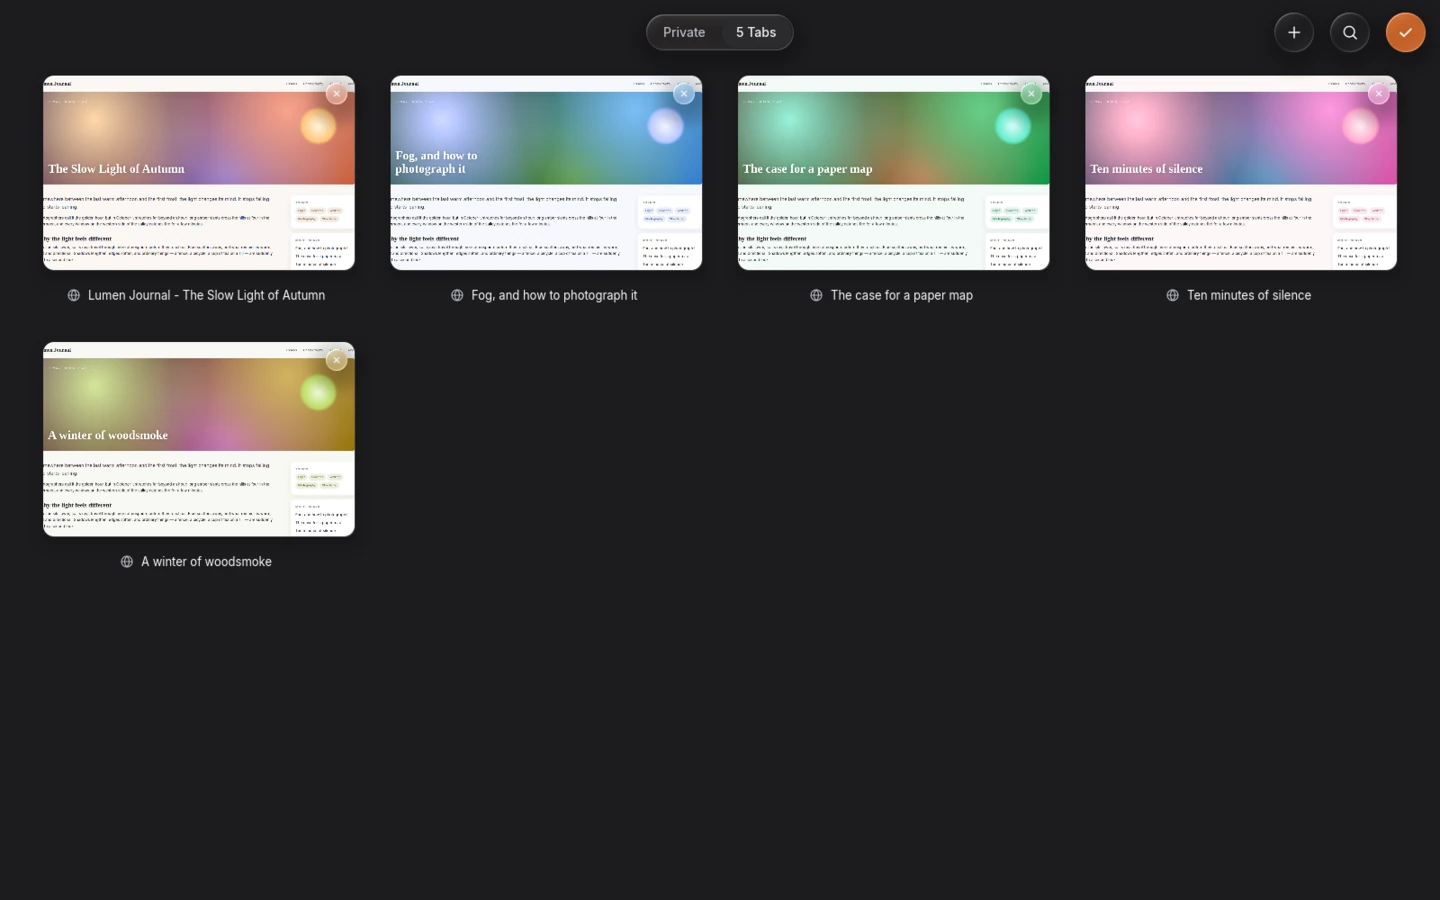
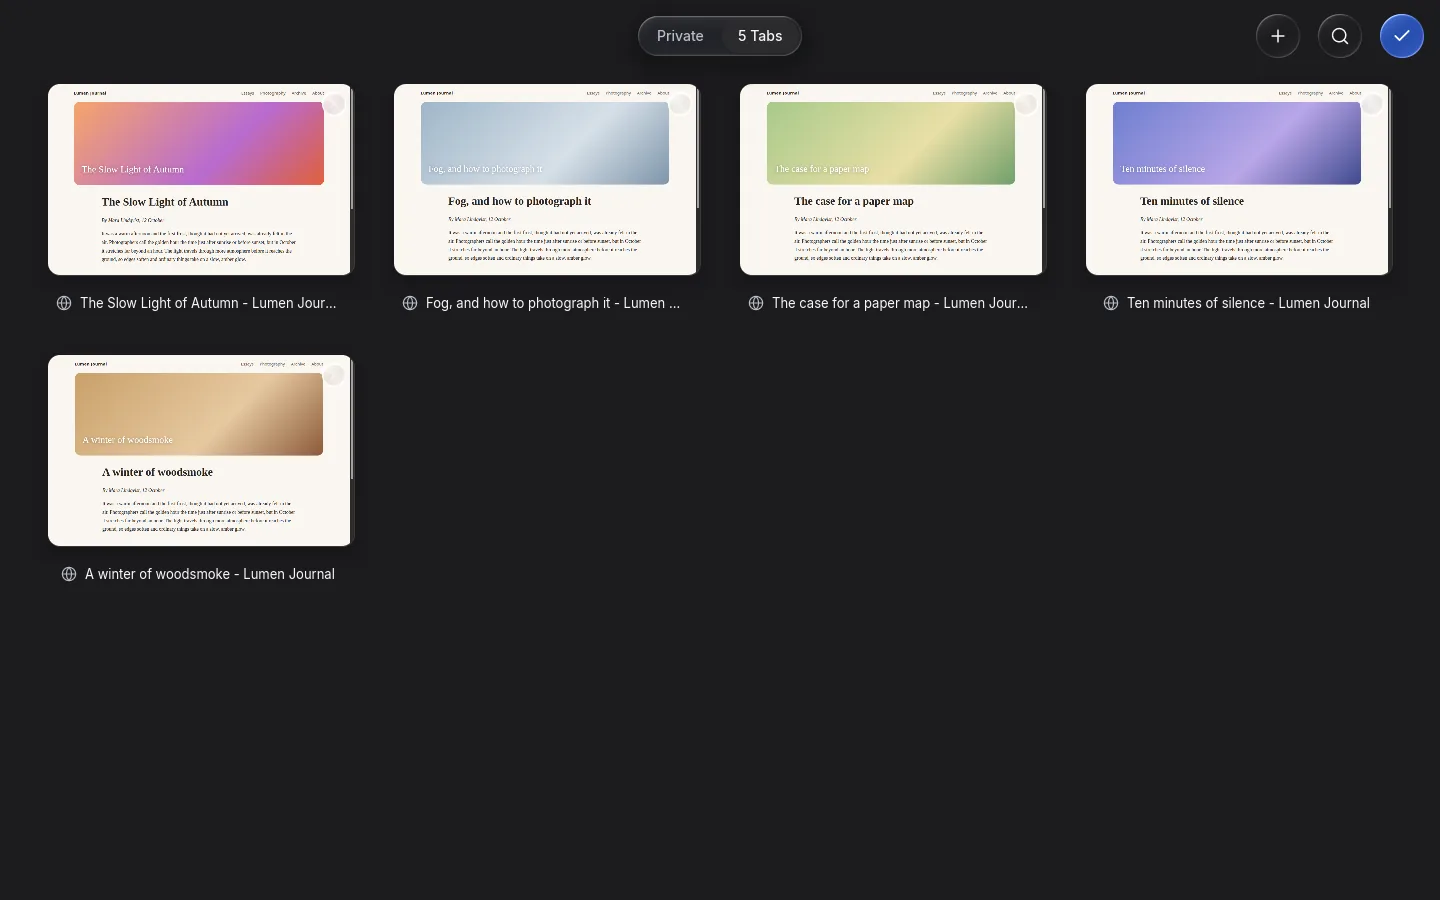
README: retaken screenshots with the 0.3 build, new gallery, feature text for 0.3, glibc requirement, MPL note for priority-queue

Changed region(s): [[0.0312, 0.0, 1.0, 0.3422], [0.0312, 0.3733, 0.25, 0.6533]]

diff --git a/README.md b/README.md
@@ -40,7 +40,7 @@ textures, and the interface, the glass and the page are composited in a single f
 genuinely refracts whatever is underneath it.
 
 > [!NOTE]
-> Axion is in **early development** (version 0.0.x). It is usable day to day on the author's machine,
+> Axion is in **early development** (version 0.x). It is usable day to day on the author's machine,
 > but expect rough edges, missing features and breaking changes. See [Status and roadmap](#status-and-roadmap).
 
 ## Features
@@ -59,13 +59,18 @@ genuinely refracts whatever is underneath it.
   (and then refracts it). The page is a rounded card; the chrome flips between light and dark to
   match the page's top edge.
 - **Tab overview** - a grid of live tab thumbnails with a Private / tabs switch and search.
+- **Tab groups and tab search** - name and colour groups of tabs (right-click a tab); they show in
+  the sidebar, the tab bar and the overview, fold away, and come back after a restart.
+  `Ctrl+Shift+A` searches open tabs by title, address or group.
+- **Command palette** - `Ctrl+K` finds any action by name and shows its shortcut.
+- **Link preview** - a small glass bubble shows where the link under the pointer leads.
 - **Sidebar** - tab groups, a locked *Private* section, Bookmarks, Reading List, History, Playlist,
   Downloads and Passwords, plus the account switcher at the bottom.
 - **Start page** - clock and greeting, search field, your top sites, Shields statistics (trackers
   blocked, bandwidth and time saved) and your own backgrounds, including animated and **video live
   wallpapers**.
-- **Context menus**, address-bar suggestions, find on page, zoom, share, downloads popover and a
-  glass toast/alert system - all native Axion UI, not web content.
+- **Context menus**, address-bar suggestions, find on page, page zoom (remembered per site), share,
+  downloads popover and a glass toast/alert system - all native Axion UI, not web content.
 - **Light, dark or automatic** theme, accent colours, text scale, icon weight and corner radius.
 - **English and German** interface.
 - **First-run tour** - a five-step introduction that lets you pick language, theme, accent, tab bar
@@ -84,6 +89,12 @@ genuinely refracts whatever is underneath it.
   (XChaCha20-Poly1305 per item). The vault key needs two factors: your master password (Argon2id)
   *and* a device secret, which is sealed in the **TPM** when one is available (otherwise a key file
   outside the profile). Copying the profile to another machine does not expose the vault.
+- **Network & VPN** - send an account's tabs, its private tabs or single sites through an upstream
+  proxy (SOCKS5, HTTP, HTTPS), a **WireGuard** VPN (userspace, no root) or **Tor** (built in, with
+  a circuit view that shows the hops of the current site). A kill switch blocks instead of falling
+  back to a direct connection, and leak protection switches off WebRTC leaks and Chromium's
+  background services while a route is active. Tor here is not Tor Browser: it adds no
+  fingerprinting resistance. See [Network & VPN](docs/network.md).
 - **Local accounts** - every account is a fully separate profile (tabs, history, bookmarks,
   downloads, passwords, website data, settings, keymap) with an avatar and its own password.
   Switching accounts relaunches Axion into the other profile.
@@ -108,6 +119,20 @@ genuinely refracts whatever is underneath it.
   viewing. A dedicated page with a thumbnail list, search, sorting, shuffle/repeat, speed, sleep
   timer, remembered positions and "continue watching". Playback shows only the video, never the
   surrounding site.
+
+### Reading, extensions and everyday tools
+
+- **Chrome extensions** - Manifest V3 extensions from the Chrome Web Store, a `.crx` file or an
+  unpacked folder, with a permission review before anything is installed, an extensions button
+  and popover, and automatic updates. See [Chrome extensions](docs/features/extensions.md) for
+  what works and what does not.
+- **Reader View and translation** - a distraction-free reader with its own text and colour
+  options, and page translation that runs on your computer (Bergamot, WebAssembly); an optional
+  LibreTranslate server can be set instead.
+- **Print or Save as PDF** with paper, orientation, margins and scale choices, and a
+  **screenshot tool** (selection, visible area or the full page) with copy and save.
+- **Site permissions** for microphone, camera, screen sharing, notifications and location, with
+  a recording indicator.
 
 ### Productivity and developer tools
 
@@ -147,11 +172,31 @@ genuinely refracts whatever is underneath it.
   </tr>
   <tr>
     <td width="50%"><img src="assets/screenshots/overview-light.webp" alt="Tab overview in light mode"><br><sub><b>Tab overview</b> (light).</sub></td>
-    <td width="50%"><img src="assets/screenshots/onboarding-light.webp" alt="First-run tour: choose your look"><br><sub><b>First-run tour</b> - choose your look.</sub></td>
+    <td width="50%"><img src="assets/screenshots/onboarding-light.webp" alt="First-run tour: welcome"><br><sub><b>First-run tour</b> - language, theme, accent and more.</sub></td>
   </tr>
 </table>
 
-<sub>The screenshots show a local demo page and generated wallpapers.</sub>
+<table>
+  <tr>
+    <td width="50%"><img src="assets/screenshots/groups-dark.webp" alt="Tab groups in the sidebar and the tab bar"><br><sub><b>Tab groups</b> - coloured groups in the sidebar and the tab bar.</sub></td>
+    <td width="50%"><img src="assets/screenshots/palette-dark.webp" alt="The command palette"><br><sub><b>Command palette</b> (<code>Ctrl+K</code>).</sub></td>
+  </tr>
+  <tr>
+    <td width="50%"><img src="assets/screenshots/network-dark.webp" alt="Settings, Network and VPN page with a connected proxy"><br><sub><b>Network &amp; VPN</b> - proxy, WireGuard and Tor, per account, private tab or site.</sub></td>
+    <td width="50%"><img src="assets/screenshots/extensions-dark.webp" alt="The extensions popover"><br><sub><b>Extensions</b> - the popover under the extensions button.</sub></td>
+  </tr>
+  <tr>
+    <td width="50%"><img src="assets/screenshots/reader-light.webp" alt="Reader View with its options popover"><br><sub><b>Reader View</b> with its text options.</sub></td>
+    <td width="50%"><img src="assets/screenshots/print-light.webp" alt="The Print or Save as PDF dialog"><br><sub><b>Print or Save as PDF</b>.</sub></td>
+  </tr>
+  <tr>
+    <td width="50%"><img src="assets/screenshots/screenshot-tool-light.webp" alt="The screenshot tool: selection, visible area, full page"><br><sub><b>Screenshot tool</b> - selection, visible area or full page.</sub></td>
+    <td width="50%"><img src="assets/screenshots/link-preview-light.webp" alt="The link preview bubble at the bottom of the page"><br><sub><b>Link preview</b> - where the link leads.</sub></td>
+  </tr>
+</table>
+
+<sub>The screenshots show a local demo page, generated wallpapers and a throwaway profile. A few
+more are in [`docs/screenshots`](docs/screenshots).</sub>
 
 ## Documentation
 
@@ -160,8 +205,16 @@ User documentation lives in [`docs/`](docs/README.md):
 - [Getting started](docs/getting-started.md) - first launch, tabs, sidebar, start page, private tabs.
 - [Settings reference](docs/settings.md) - every setting, with defaults and config keys.
 - [Keyboard shortcuts](docs/keyboard-shortcuts.md) - defaults and how to remap them.
-- [Features](docs/README.md#features) - Shields, tabs and memory, accounts and privacy, passwords,
-  media and Playlist, appearance, hardware acceleration, updates.
+- [Network & VPN](docs/network.md) - proxies, WireGuard, Tor, the kill switch and the threat model.
+- [Features](docs/README.md#features) - [Shields](docs/features/shields.md),
+  [tabs and memory](docs/features/tabs-and-memory.md) (including tab groups),
+  [accounts and privacy](docs/features/accounts-and-privacy.md), [passwords](docs/features/passwords.md),
+  [media and Playlist](docs/features/media-and-playlist.md),
+  [reading and translation](docs/features/reading-and-translation.md),
+  [Chrome extensions](docs/features/extensions.md),
+  [site permissions](docs/features/site-permissions.md),
+  [appearance](docs/features/appearance-and-glass.md),
+  [hardware acceleration](docs/features/hardware-acceleration.md), [updates](docs/features/updates.md).
 - [Configuration files](docs/configuration.md) and [Troubleshooting](docs/troubleshooting.md).
 
 ## Install
@@ -179,6 +232,10 @@ entry and the icons (`./install.sh --uninstall` removes them again). What your s
 sandbox on Ubuntu 24.04 and how releases are made: [docs/install.md](docs/install.md).
 
 ## Requirements
+
+The **official releases** (AppImage and tarball, x86_64) need glibc 2.39 or newer (Ubuntu 24.04,
+Debian 13, Fedora 40, Arch and newer) and a Vulkan-capable GPU with its driver; the full list is in
+[docs/install.md](docs/install.md#what-your-system-needs).
 
 To **build from source** you need:
 
@@ -369,6 +426,10 @@ non-rendering crates (`engine`, `shields`, `tabs`, `store`, `config`, `accounts`
 | `axion-tabs` | Tab lifecycle planner (freeze/discard by idle time and memory budget) and the memory monitor. |
 | `axion-media` | The media bridge script and protocol; MPRIS lives in the app. |
 | `axion-i18n` | Gettext-style translations (English source text is the key; German catalog included). |
+| `axion-net` | Network routes: upstream proxies, userspace WireGuard, Tor (Arti), the local relays, kill switch and leak protection. |
+| `axion-extensions` | Chrome extension manifests, ids, permissions and `.crx`/`.zip` unpacking. |
+| `axion-reader` | The reader-view article extractor and its page script. |
+| `axion-translate` | Local page translation (Bergamot WASM) and the optional LibreTranslate endpoint. |
 | `axion-update` | Release checks (GitHub or a manifest), checksum verification, AppImage and Git updates. |
 
 **Rendering model.** CEF renders each visible tab off-screen and hands frames over as dma-buf
@@ -389,16 +450,22 @@ Axion is **early alpha**. What works today:
 - Tab freezing and discarding with a memory budget.
 - The media player, fullscreen, Picture-in-Picture, MPRIS and the Playlist with offline downloads.
 - The first-run tour, English and German UI, and the updater.
+- Tab groups and tab search, the command palette, link preview, Reader View, local page
+  translation, print/PDF and the screenshot tool.
+- Chrome extensions (Manifest V3) with Chrome Web Store installs.
+- Network & VPN: proxies, WireGuard and Tor, per account, private tab or site.
 
 Known gaps and ideas:
 
 - **H.264/AAC** requires a self-built CEF (see above); some streaming sites will not play without it.
 - HLS/DASH streams cannot be downloaded for offline viewing (they can be watched online).
 - Switching accounts relaunches Axion instead of switching in-process.
-- Share sheet, reading-list entries beyond the basics, a few page-menu items (translate, reader mode, request mobile site).
+- Share sheet, reading-list entries beyond the basics, a few page-menu items (request mobile site).
+- Extensions: only Manifest V3 runs, and Chromium loads extensions at start, so a change needs a restart (see [Chrome extensions](docs/features/extensions.md)).
+- Tor is not Tor Browser: no fingerprinting resistance (see [Network & VPN](docs/network.md)).
 - Touch-screen polish; touchpad and mouse are the primary inputs.
 - Packaging (AUR, Flatpak, AppImage) and crash handling.
-- Later: a subset of Chrome extensions, encrypted sync, reader mode, an alternative engine behind
+- Later: encrypted sync, an alternative engine behind
   the `Engine` trait (for example Servo), and other operating systems.
 
 ## Updating

diff --git a/docs/third-party.md b/docs/third-party.md
@@ -237,8 +237,13 @@ permissive. Licence texts ship with each crate. Lucide icons are covered in
 
 227 crates.
 Note: `priority-queue` is offered under `LGPL-3.0-or-later OR MPL-2.0`; Axion takes it under
-**MPL-2.0** (file-level copyleft, no changes made to it). It is the only crate in the list that is
-not plainly permissive.
+**MPL-2.0** (file-level copyleft, no changes made to it), a weak copyleft the project owner has
+accepted for this one crate. It is the only crate in the list that is not plainly permissive.
+MPL-2.0 asks that a binary which contains the crate says where its source and licence are: the
+source is the unmodified crate from [crates.io](https://crates.io/crates/priority-queue) (version
+2.7.0, the one pinned in `Cargo.lock`), its licence text ships with the crate, and the licence
+is [MPL-2.0](https://www.mozilla.org/MPL/2.0/). Should Axion ever change that crate's files, the
+changed files must be published under the MPL as well.
 
 Binary size (release, same machine): 69.0 MiB with Tor against 47.7 MiB for the main checkout's
 release binary at the time (about +21 MiB, mostly Arti, rustls/ring and the embedded GeoIP
